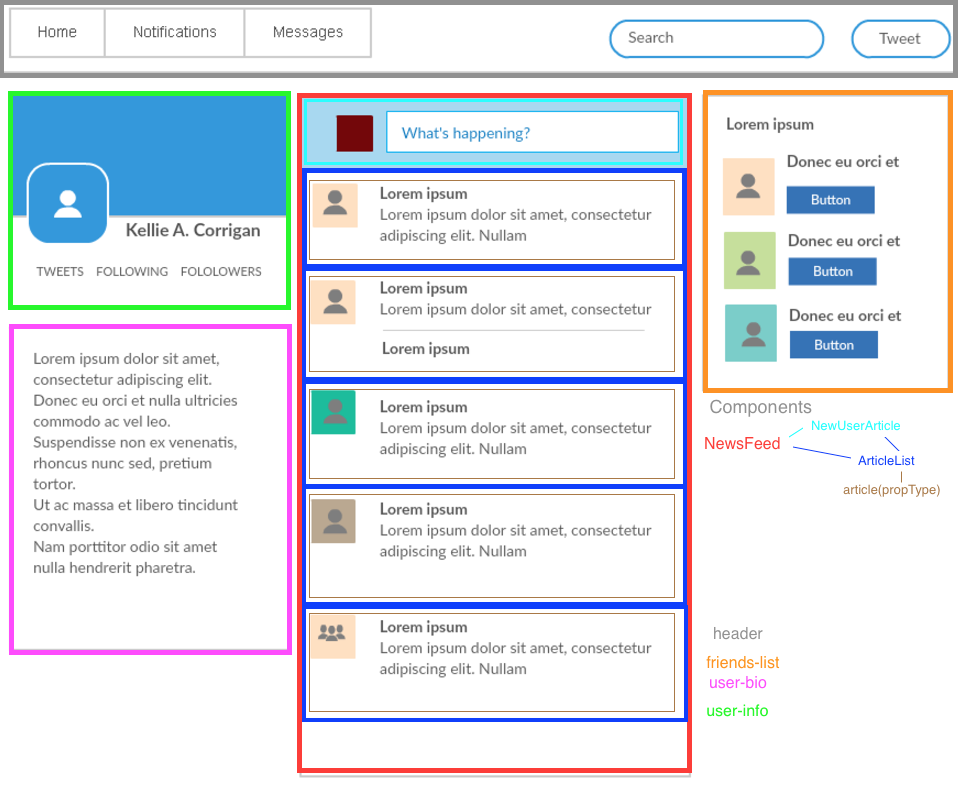
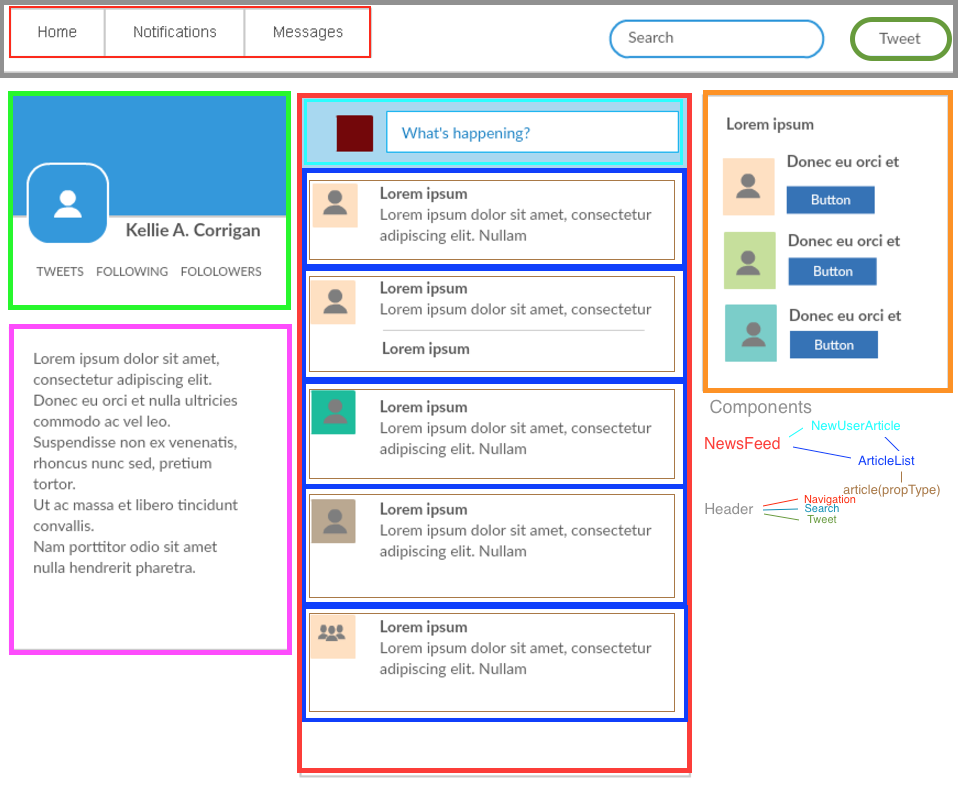
add header component with navigation, search, and tweet sections

diff --git a/src/components/Article.jsx b/src/components/Article.jsx
@@ -1,0 +1,20 @@
+import React from "react";
+import PropTypes from "prop-types";
+
+function Article(props){
+  return(
+    <div>
+      <img src={props.profilePhoto} width="150px"></img>
+      <h3>{props.name}</h3>
+      <p>{props.article}</p>
+    </div>
+  );
+}
+
+Article.propType = {
+  profilePhoto: PropTypes.string.isRequired,
+  name: PropTypes.string.isRequired,
+  article: PropTypes.string.isRequired
+};
+
+export default Article;

diff --git a/src/components/ArticleList.jsx b/src/components/ArticleList.jsx
@@ -1,0 +1,15 @@
+import React from "react";
+import Article from "./Article"
+
+function ArticleList() {
+  return(
+    <Article
+       profilePhoto="https://1.bp.blogspot.com/--ucL-rXn-Ec/VLwta4arOvI/AAAAAAAABHU/LzjxpJ_cA-g/s1600/wallpaper-for-facebook-profile-photo-738967.jpg"
+       name="Cool Bob"
+       article="Hey man. Ever wonder what it's like to eat a spider?"/>
+  );
+}
+
+
+ 
+export default ArticleList;

diff --git a/src/components/App.jsx b/src/components/App.jsx
@@ -1,10 +1,12 @@
 import React from "react";
 import ReactDOM from "react-dom";
-import NewsFeed from "./news-feed-component/NewsFeed"
+import NewsFeed from "./NewsFeed";
+import Header from "./Header";
 
 function App() {
   return (
     <div>
+      <Header />
       <NewsFeed />
     </div>
   );

diff --git a/src/components/Header.jsx b/src/components/Header.jsx
@@ -1,0 +1,16 @@
+import React from "react";
+import Navigation from "./Navigation";
+import Search from "./Search";
+import Tweet from "./Tweet";
+
+function Header() {
+  return(
+    <div>
+      <Navigation />
+      <Search />
+      <Tweet />      
+    </div>
+  );
+}
+
+export default Header

diff --git a/src/components/Navigation.jsx b/src/components/Navigation.jsx
@@ -1,0 +1,13 @@
+import React from "react";
+
+function Navigation() {
+  return(
+    <div>
+      <button>Home</button>
+      <button>Notifications</button>
+      <button>Messages</button>
+    </div>
+  );
+}
+
+export default Navigation;

diff --git a/src/components/NewsFeed.jsx b/src/components/NewsFeed.jsx
@@ -1,9 +1,10 @@
 import React from "react";
+import ArticleList from "./ArticleList";
 
 function NewsFeed() {
   return(
     <div>
-      <h1>NewsFeed Works!</h1>
+      <ArticleList />
     </div>
   );
 }

diff --git a/src/components/Search.jsx b/src/components/Search.jsx
@@ -1,0 +1,9 @@
+import React from "react"
+
+function Search() {
+  return (
+    <input type="text" placeholder="Search"></input>
+  );
+}
+
+export default Search;

diff --git a/src/components/Tweet.jsx b/src/components/Tweet.jsx
@@ -1,0 +1,10 @@
+import React from "react";
+
+function Tweet() {
+  return (
+    <input type="text" placeholder="Tweet"></input>
+
+  );
+}
+
+export default Tweet
